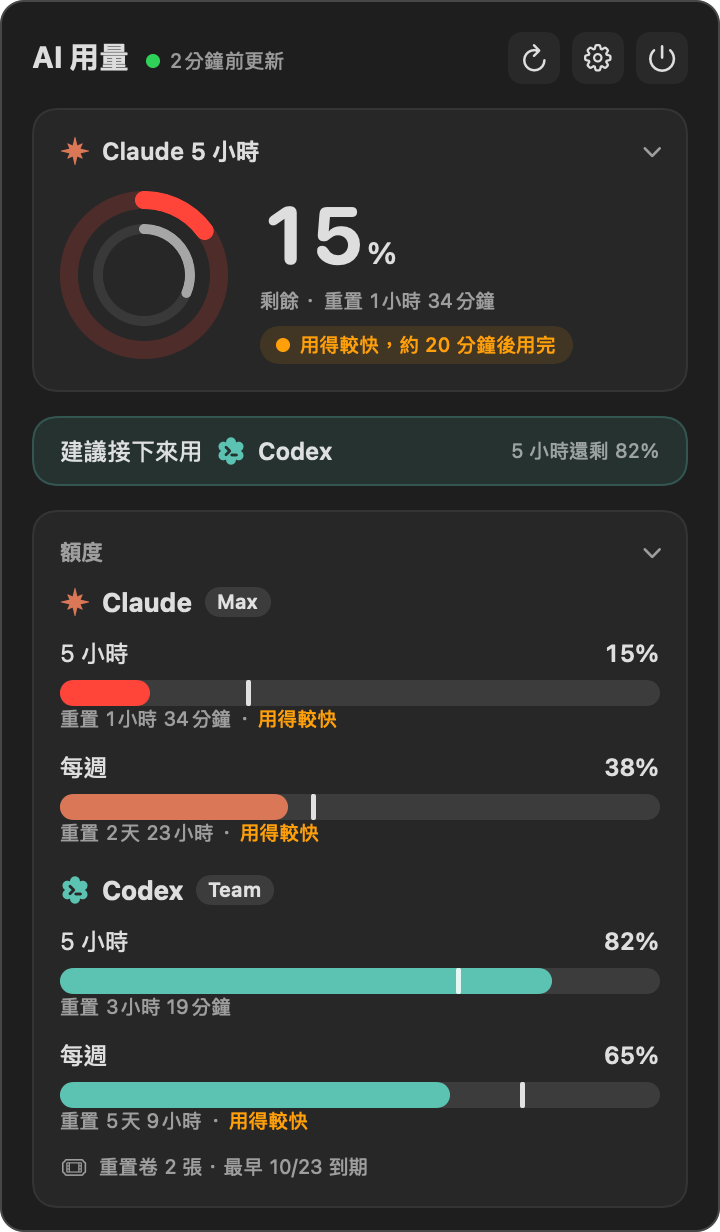
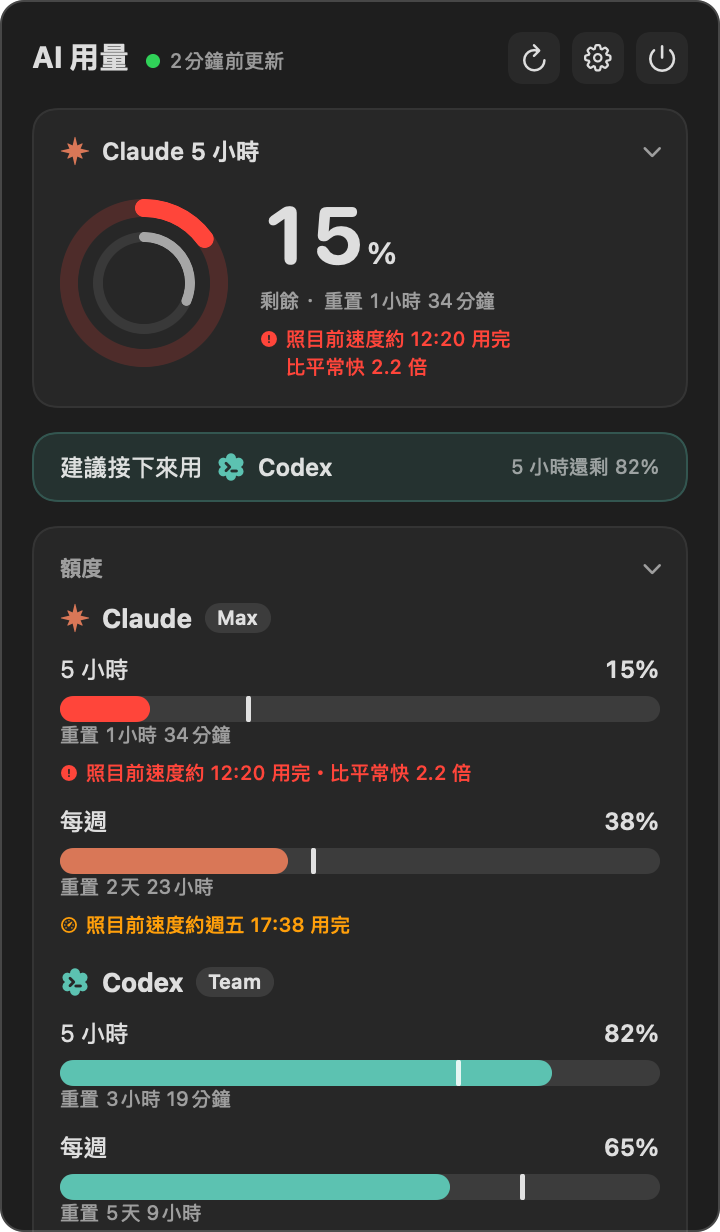
test(snapshots): panel forecast line and notch forecast and incident sheet
The panel shows the forecast line where the pace badge was (the ring card
puts the ratio on its own line); notch-forecast covers the worried and
sick moods with the notch quota card's last line. README panel images
regenerated; iPhone and watch images only differed in status bar pixels
and were left as they were.

diff --git a/apple/MacMenuBar/AIUsageMenuBar/DebugMascot.swift b/apple/MacMenuBar/AIUsageMenuBar/DebugMascot.swift
@@ -20,7 +20,7 @@ enum DebugMascot {
         var pulse: Double?
     }
 
-    enum Quota { case normal, low, stale }
+    enum Quota { case normal, low, stale, forecast, incident }
 
     static func render(to dir: URL, snapshot: UsageSnapshot?, now: Date, write: (any View, URL) -> Void) {
         guard let data = MascotController.bundledConfig(), let config = try? MascotConfig.decode(data) else {
@@ -36,7 +36,10 @@ enum DebugMascot {
             shot.setup(&d)
             // 沒有指定表情時照額度：過期閉眼、剩不到 20% 擔心、用完 ×
             if d.mood == .normal {
-                d.setMood(.quota(level: d.machine.statusLevel, unavailable: shot.quota == .stale))
+                let data = quotaSnapshot(shot.quota)
+                d.setMood(.quota(level: d.machine.statusLevel, unavailable: shot.quota == .stale,
+                                 incident: MascotMood.hasIncident(data, provider: shot.character.provider),
+                                 runsOut: MascotMood.runsOut(data, provider: shot.character.provider, now: now)))
             }
             d.advance(to: shot.time)
             return d
@@ -53,6 +56,23 @@ enum DebugMascot {
                 }
             case .stale:
                 snapshot.updatedAt = now.addingTimeInterval(-3 * 3600)
+            case .forecast:
+                // ADR-0018：Claude 的額度照目前速度會在重置前用完（收集器算好的）
+                if var claude = snapshot.providers["claude"] {
+                    claude.windows = claude.windows.map { w in
+                        var w = w
+                        guard let resets = w.resetsAt, !w.hidden else { return w }
+                        let at = now.addingTimeInterval(min(resets.timeIntervalSince(now) * 0.6, w.id == "five_hour" ? 40 * 60 : 20 * 3600))
+                        w.forecast = QuotaForecast(exhaustsAt: at, urgent: false, faster: w.id == "five_hour" ? 2.1 : nil)
+                        return w
+                    }
+                    snapshot.providers["claude"] = claude
+                }
+            case .incident:
+                snapshot.providers["claude"]?.incidents = [
+                    ServiceIncident(name: "Elevated errors on Claude Code", impact: "major",
+                                    url: "https://status.claude.com/incidents/demo", startedAt: now.addingTimeInterval(-1200)),
+                ]
             }
             return snapshot
         }
@@ -187,6 +207,17 @@ enum DebugMascot {
         write(sheet(expanded + intro), dir.appendingPathComponent("notch-intro.png"))
         write(sheet(expressions), dir.appendingPathComponent("notch-expressions.png"))
         write(sheet(agents, collapsedHeight: 44), dir.appendingPathComponent("notch-agents.png"))
+        // ADR-0018：預測會用完（擔心＋額度卡最後一行）、服務事故（生病＋事故名稱）
+        write(VStack(spacing: 0) {
+            sheet([
+                Shot(name: "expanded-claude-forecast", setup: { $0.open(at: 0, intro: false) }, time: 1500, quota: .forecast),
+                Shot(name: "expanded-claude-incident", setup: { $0.open(at: 0, intro: false) }, time: 1500, quota: .incident),
+            ])
+            sheet([
+                Shot(name: "collapsed-claude-forecast", setup: { _ in }, time: 1000, quota: .forecast),
+                Shot(name: "collapsed-claude-incident", setup: { _ in }, time: 1000, quota: .incident),
+            ], height: 40)
+        }, dir.appendingPathComponent("notch-forecast.png"))
         for scheme in [ColorScheme.light, .dark] {
             write(menuBar(screens.map { ($0.name, canvas($0)) }, scheme: scheme), dir.appendingPathComponent("notch-menubar-\(scheme == .dark ? "dark" : "light").png"))
         }

diff --git a/apple/MacMenuBar/AIUsageMenuBar/PanelCards.swift b/apple/MacMenuBar/AIUsageMenuBar/PanelCards.swift
@@ -172,7 +172,7 @@ struct RingCardContent: View {
                 .font(.caption)
                 .foregroundStyle(.secondary)
                 if let forecast {
-                    QuotaForecastLine(forecast: forecast, now: now)
+                    QuotaForecastLine(forecast: forecast, now: now, stacked: true)
                         .padding(.top, 2)
                 }
             }
@@ -236,6 +236,8 @@ struct PanelResetText: View {
 struct QuotaForecastLine: View {
     let forecast: QuotaForecast
     let now: Date
+    /// 窄的地方（主圓環卡片）：倍數另起一行，不在中間斷開
+    var stacked = false
 
     private var color: Color { forecast.urgent ? UsageColors.critical : UsageColors.notice }
 
@@ -244,8 +246,15 @@ struct QuotaForecastLine: View {
             Image(systemName: forecast.urgent ? "exclamationmark.circle.fill" : "speedometer")
                 .imageScale(.small)
                 .accessibilityHidden(true)
-            Text(forecast.line(now: now))
-                .fixedSize(horizontal: false, vertical: true)
+            if stacked {
+                VStack(alignment: .leading, spacing: 1) {
+                    Text(forecast.text(now: now))
+                    if let faster = forecast.fasterText { Text(faster) }
+                }
+            } else {
+                Text(forecast.line(now: now))
+                    .fixedSize(horizontal: false, vertical: true)
+            }
         }
         .font(.caption.weight(.medium))
         .foregroundStyle(color)
